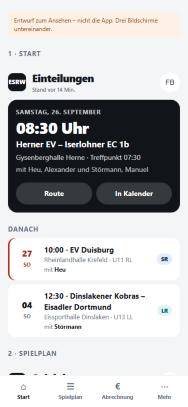
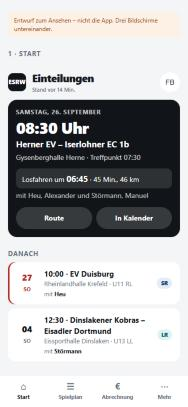
Entwurf: selbsterklaerend statt knapp
* Die Heldenkarte sagt, wann man losfahren muss - nicht nur, wann
  Treffpunkt ist. Die App rechnet die Zeit ohnehin schon aus; bisher stand
  sie klein auf der Spielseite.
* Aus dem Zahnrad wird 'Filter 2'. Ein Symbol allein sagt niemandem, was
  es tut, und die Zahl verraet, dass ueberhaupt gefiltert wird.
* Ein leerer Bildschirm sagt jetzt, was los ist und was man tun kann:
  'Diese Woche pfeifst du nicht. Dein naechstes Spiel ist am So. 12.10.'
  samt Knopf dorthin - statt einer leeren Liste.

diff --git a/referenz/entwurf/index.html b/referenz/entwurf/index.html
@@ -70,7 +70,12 @@
   .held .zeit { font-size:2rem; font-weight:800; letter-spacing:-.03em; line-height:1.1; margin:var(--a-xs) 0; }
   .held .wer { font-size:var(--s-2xl); font-weight:700; }
   .held .wo { font-size:var(--s-l); opacity:.8; margin-top:var(--a-xs); }
-  .held .zeile { display:flex; gap:var(--a-s); margin-top:var(--a-l); }
+  /* Die wichtigste Zahl am Spieltag ist nicht der Anpfiff, sondern wann
+     man losfahren muss. Die App rechnet sie ohnehin schon aus. */
+  .held .losfahren { margin-top:var(--a-m); padding:var(--a-s) var(--a-m);
+    background:rgba(255,255,255,.12); border-radius:var(--radius-s); font-size:var(--s-l); }
+  .held .losfahren b { font-size:var(--s-2xl); }
+  .held .zeile { display:flex; gap:var(--a-s); margin-top:var(--a-m); }
   .held .knopf { background:rgba(255,255,255,.16); color:inherit; flex:1; }
 
   /* ---------- Spielzeile: 203 px werden 72 ---------- */
@@ -112,6 +117,13 @@
     font-size:var(--s-s); padding:0 var(--a-m); min-height:36px; border-radius:var(--radius-pille); cursor:pointer; }
   .segment button.an { background:var(--akzent); color:var(--akzent-text); }
   .steuer .rund { width:36px; height:36px; margin-left:auto; background:var(--erhaben); border:1px solid var(--linie); }
+  /* Ein Zahnrad sagt niemandem, was es tut - das Wort schon. */
+  .wortknopf { margin-left:auto; min-height:36px; padding:0 var(--a-m); border-radius:var(--radius-pille);
+    border:1px solid var(--linie); background:var(--erhaben); color:var(--text);
+    font:inherit; font-size:var(--s-s); font-weight:700; cursor:pointer;
+    display:inline-flex; align-items:center; gap:6px; }
+  .wortknopf .zahl { background:var(--akzent); color:var(--akzent-text); border-radius:var(--radius-pille);
+    min-width:18px; height:18px; display:grid; place-items:center; font-size:10px; }
   .zaehler { font-size:var(--s-s); color:var(--leise); padding:0 0 var(--a-s); }
 
   /* ---------- Abrechnungszeile ---------- */
@@ -133,6 +145,14 @@
     color:var(--leise); margin-top:var(--a-xs); }
   .pruef { background:var(--warn-bg); color:var(--warn); border:0; font:inherit; font-weight:700;
     font-size:var(--s-xs); border-radius:var(--radius-pille); min-height:32px; padding:0 var(--a-m); cursor:pointer; }
+
+  /* Ein leerer Bildschirm soll sagen, was los ist und was man tun kann -
+     nicht nur, dass nichts da ist. */
+  .leer { background:var(--karte); border-radius:var(--radius); padding:var(--a-xl) var(--a-l);
+    text-align:center; }
+  .leer .gross { font-size:var(--s-2xl); font-weight:700; }
+  .leer p { color:var(--leise); font-size:var(--s-l); margin:var(--a-s) 0 var(--a-l); }
+  .leer b { color:var(--text); }
 
   /* ---------- Leiste unten ---------- */
   .leiste { position:sticky; bottom:0; display:flex; background:var(--karte);
@@ -160,6 +180,7 @@
     <div class="zeit">08:30 Uhr</div>
     <div class="wer">Herner EV – Iserlohner EC 1b</div>
     <div class="wo">Gysenberghalle Herne · Treffpunkt 07:30</div>
+    <div class="losfahren">Losfahren um <b>06:45</b> · 45 Min., 46 km</div>
     <div class="wo" style="opacity:.7">mit Heu, Alexander und Störmann, Manuel</div>
     <div class="zeile">
       <button class="knopf">Route</button>
@@ -189,7 +210,7 @@
     <span class="segment">
       <button class="an">Meine</button><button>Alle</button><button>Woche</button>
     </span>
-    <button class="rund" aria-label="Filter">⚙</button>
+    <button class="wortknopf">Filter <span class="zahl">2</span></button>
   </div>
   <div class="zaehler">3 von 101 · ab heute</div>
 
@@ -208,6 +229,13 @@
     <div class="mitte"><b>12:30 · Dinslakener Kobras – Eisadler Dortmund</b><span>Eissporthalle Dinslaken · U13 LL</span><div class="gespann">mit <b>Störmann</b></div></div>
     <div class="rolle">SR</div>
   </a>
+
+  <h2 class="trenner">2b · Wenn nichts ansteht</h2>
+  <div class="leer">
+    <div class="gross">Diese Woche pfeifst du nicht.</div>
+    <p>Dein nächstes Spiel ist am <b>So. 12.10. um 09:30</b> in Krefeld.</p>
+    <button class="knopf leise">Zu diesem Spiel</button>
+  </div>
 
   <h2 class="trenner">3 · Abrechnung</h2>
   <div class="kopf">
